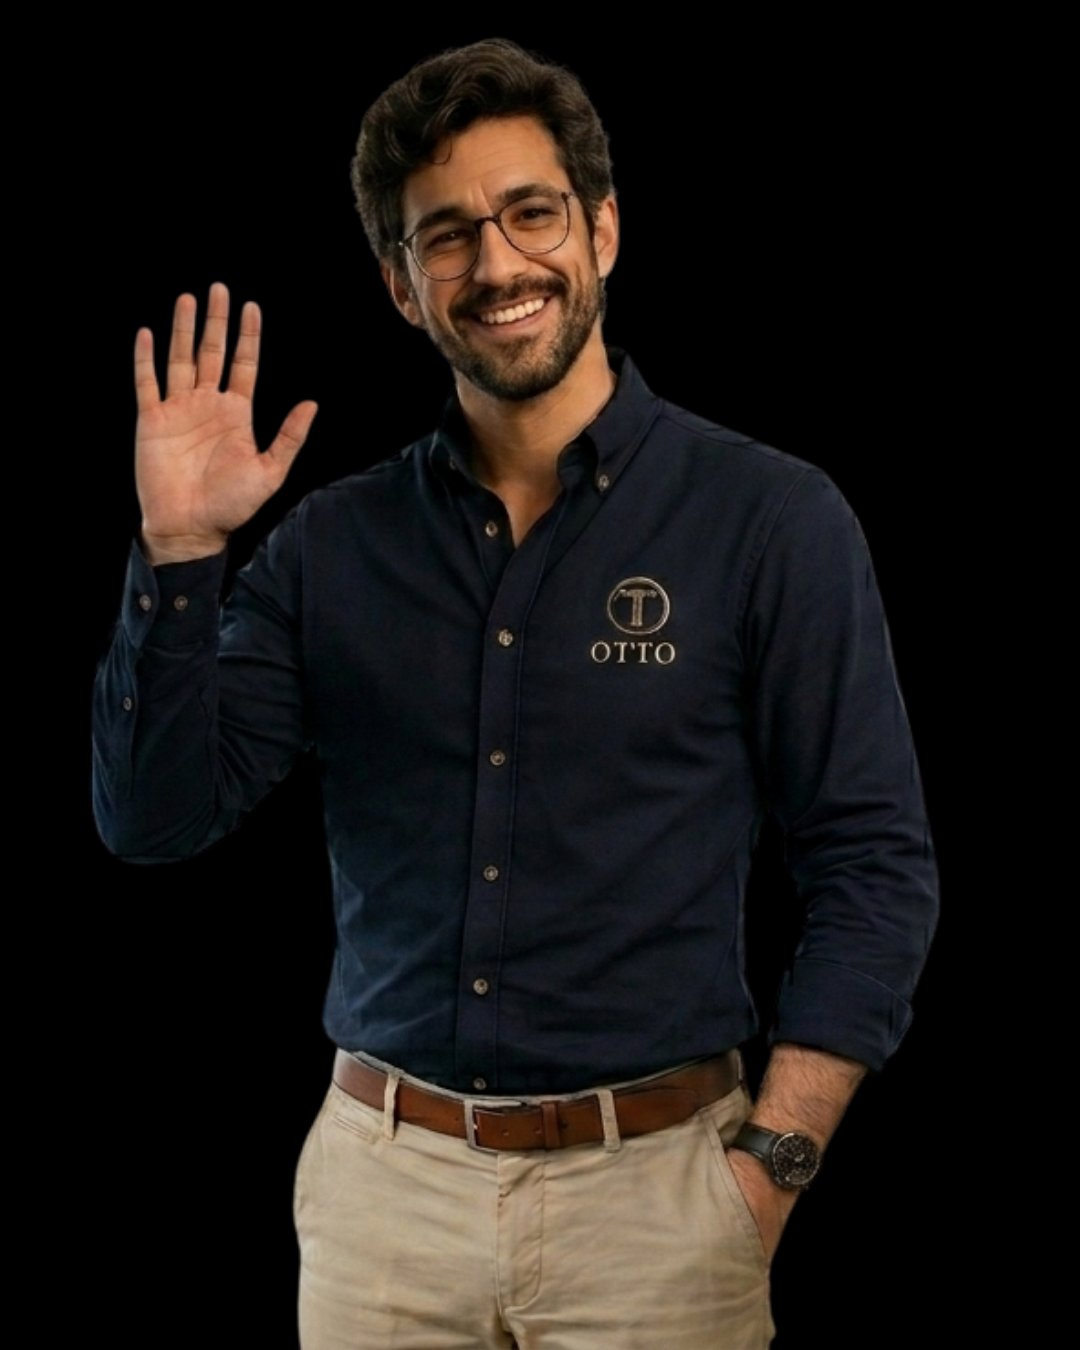
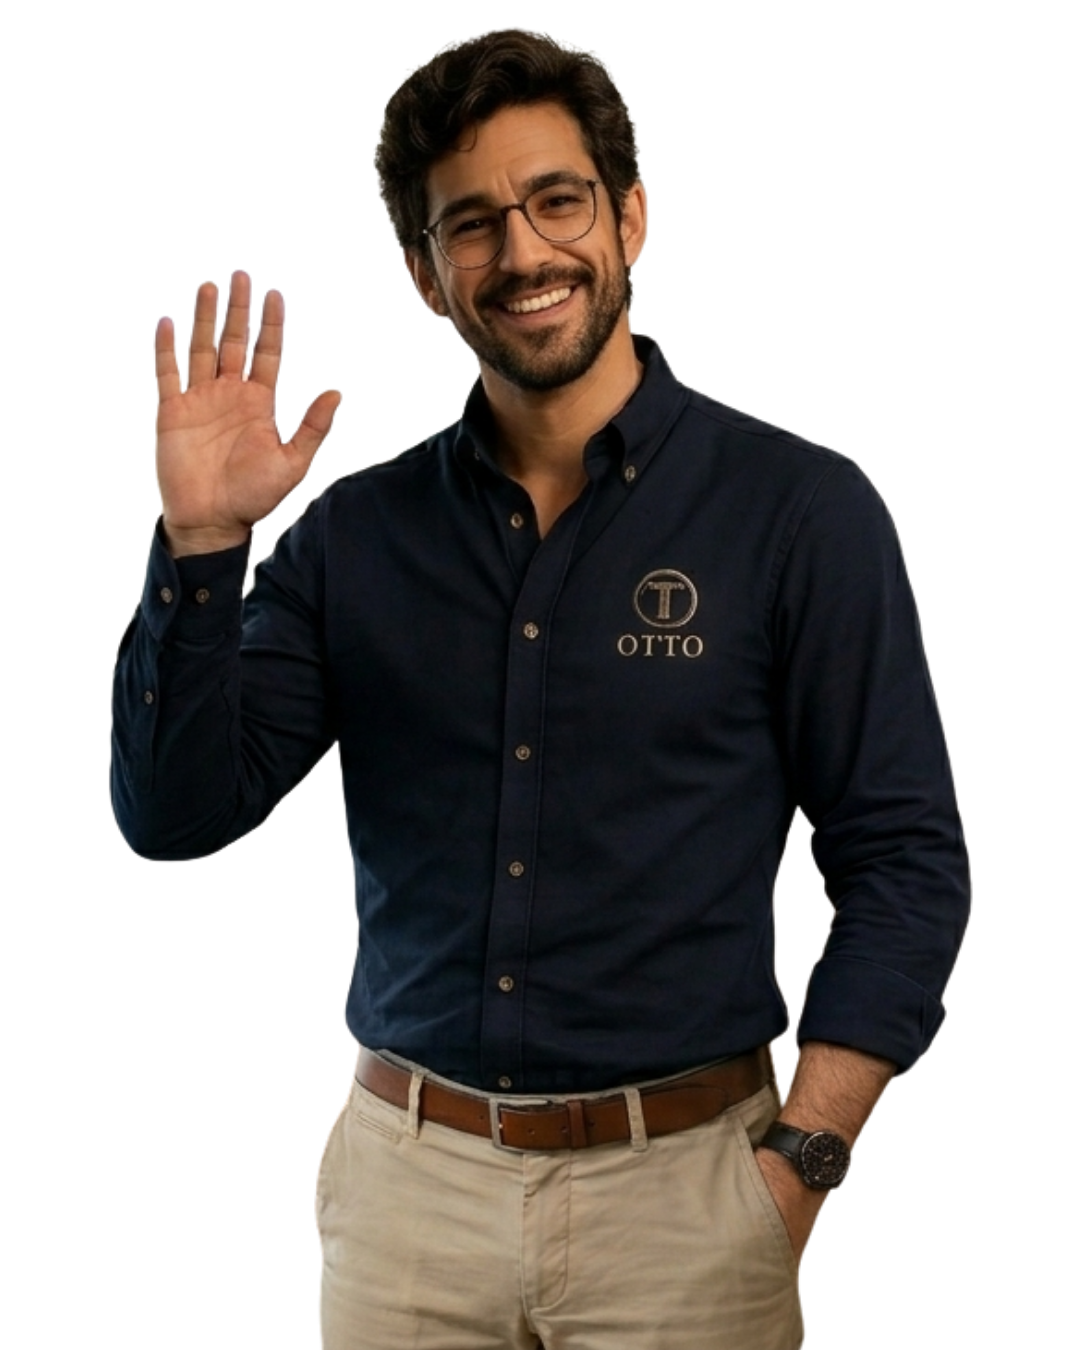
fix: layout e fade nas pernas do OTTO ajustados

diff --git a/obrigado.html b/obrigado.html
@@ -9,15 +9,16 @@
   :root{--bg:#0a0a0a;--card:#111;--line:#1e1e1e;--coral:#FF5A1F;--leaf:#22c55e;--yellow:#F5C24A;--ink:#fff;--ink-3:#888;--r:14px;}
   *{margin:0;padding:0;box-sizing:border-box}
   body{background:var(--bg);color:var(--ink);font-family:'DM Sans',sans-serif;min-height:100vh;}
-  .page{display:flex;align-items:flex-start;justify-content:center;min-height:100vh;}
-  .content{max-width:560px;width:100%;padding:40px 24px 60px;flex-shrink:0;}
+  .page{display:flex;align-items:flex-start;justify-content:center;min-height:100vh;max-width:1100px;margin:0 auto;}
+  .content{max-width:600px;width:100%;padding:40px 32px 60px;flex:1;min-width:0;}
 
   /* OTTO col */
   .otto-col{
-    width:320px;flex-shrink:0;
+    width:340px;flex-shrink:0;
     position:sticky;top:0;
     height:100vh;
     display:flex;align-items:flex-end;justify-content:center;
+    overflow:hidden;
     pointer-events:none;
   }
   #otto-canvas{
@@ -110,9 +111,10 @@
   var img = new Image();
   img.src = 'assets/OTTO_acenando.png';
   img.onload = function(){
-    var h = window.innerHeight * 0.92;
+    var maxW = 340;
     var ratio = img.naturalWidth / img.naturalHeight;
-    var w = h * ratio;
+    var w = Math.min(maxW, window.innerHeight * 0.92 * ratio);
+    var h = w / ratio;
     canvas.width = w;
     canvas.height = h;
     canvas.style.width = w + 'px';
@@ -120,12 +122,13 @@
     var ctx = canvas.getContext('2d');
     ctx.drawImage(img, 0, 0, w, h);
     // Aplicar gradiente de fade nas pernas (bottom 35%)
-    var grad = ctx.createLinearGradient(0, h * 0.65, 0, h);
+    var grad = ctx.createLinearGradient(0, h * 0.55, 0, h);
     grad.addColorStop(0, 'rgba(10,10,10,0)');
-    grad.addColorStop(0.5, 'rgba(10,10,10,0.7)');
+    grad.addColorStop(0.4, 'rgba(10,10,10,0.5)');
+    grad.addColorStop(0.75, 'rgba(10,10,10,0.9)');
     grad.addColorStop(1, 'rgba(10,10,10,1)');
     ctx.fillStyle = grad;
-    ctx.fillRect(0, h * 0.65, w, h * 0.35);
+    ctx.fillRect(0, h * 0.55, w, h * 0.45);
   };
 })();
 </script>
